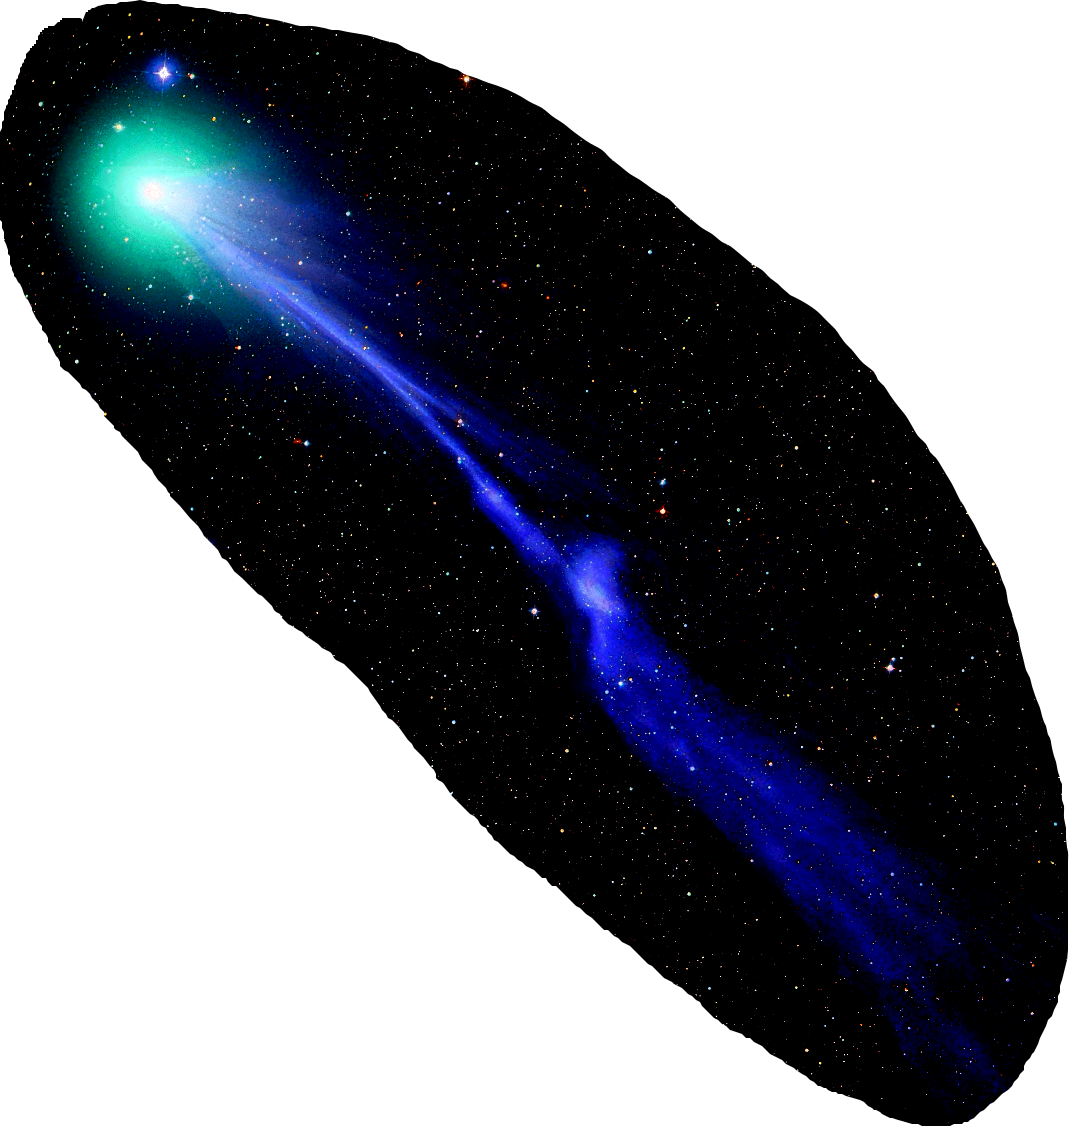
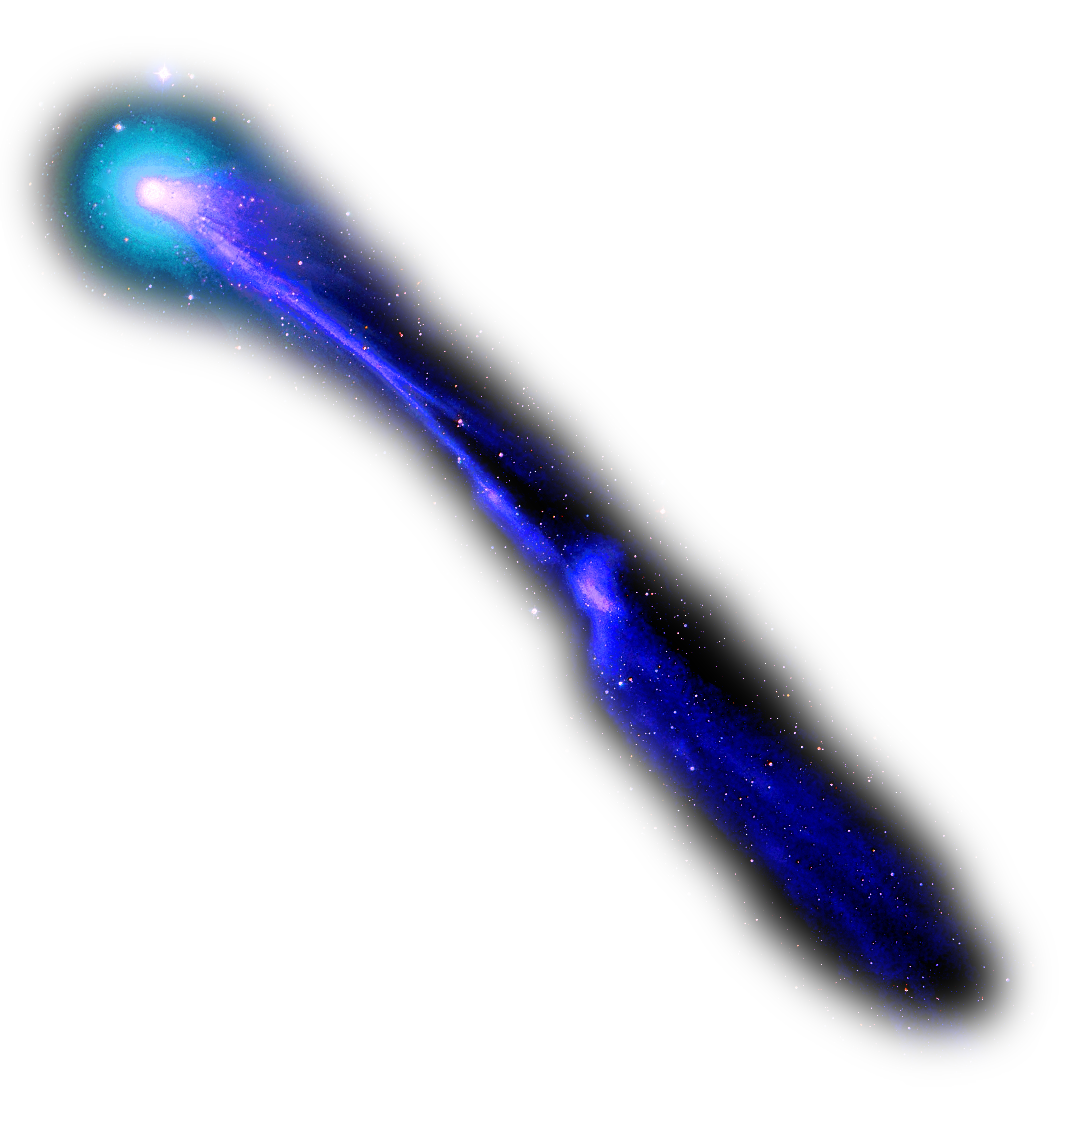
better comet support

diff --git a/content/views/index.html b/content/views/index.html
@@ -43,12 +43,11 @@
 						<li class="dropdown"> <!-- Projects -->
 							<a href="#" class="dropdown-toggle" data-toggle="dropdown" role="button" aria-haspopup="true" aria-expanded="false">Projects <span class="caret"></span></a>
 							<ul class="dropdown-menu">
+								<li><a href="https://github.com/lemasque">My personal Github</a></li>
+								<li role="separator" class="divider"></li>
+								<li class="dropdown-header">Web Projects:</li>
 								<li><a href="/chat">Chat</a></li>
 								<li><a href="#">Conway's game</a></li>
-								<li role="separator" class="divider"></li>
-								<li class="dropdown-header">Github Projects:</li>
-								<li><a href="https://github.com/lemasque">My personal Github</a></li>
-								<li><a href="#">Freedom-social-wechat</a></li>
 							</ul>
 						</li>
 						<li><a href="">Contact</a></li>
@@ -61,7 +60,6 @@
 		<div class="parallax" id="moon" data-type="background" data-yspeed="48" data-xspeed="800"></div>
 		<div class="parallax" id="jupiter" data-type="background" data-yspeed="16" data-xspeed="-600"></div>
 		<div class="parallax" id="comet" data-type="background" data-yspeed="2" data-xspeed="60"></div>
-		<div class="parallax" id="nova" data-type="background" data-yspeed="2" data-xspeed="1"></div>
 		<div id="b" class="container">
 			<div id="bHead-container">
 				<h1 id="bHead">My Daily Exploits</h1>

diff --git a/content/styles/index.css b/content/styles/index.css
@@ -33,6 +33,7 @@ a:hover, a:focus {
 	position: absolute;
 	width: 100%;
 	top: 0;
+	opacity: 0.9;
 	height: 3000px;
 }
 
@@ -40,7 +41,6 @@ a:hover, a:focus {
 	background: url("/images/moon.png") fixed no-repeat;
 	background-position: -80% -220px;
 	background-size: 60% 90%;
-	opacity: 0.9;
 	z-index: -1;
 }
 
@@ -48,7 +48,6 @@ a:hover, a:focus {
 	background: url("/images/jupiter.png") fixed no-repeat;
 	background-position: 92% 400px;
 	background-size: 60px 60px;
-	opacity: 0.9;
 	z-index: -2;
 }
 
@@ -56,7 +55,6 @@ a:hover, a:focus {
 	background: url("/images/comet.png") fixed no-repeat;
 	background-position: 110% 1100px;
 	background-size: 250px 250px;
-	opacity: 1.0;
 	z-index: -3;
 }
 
